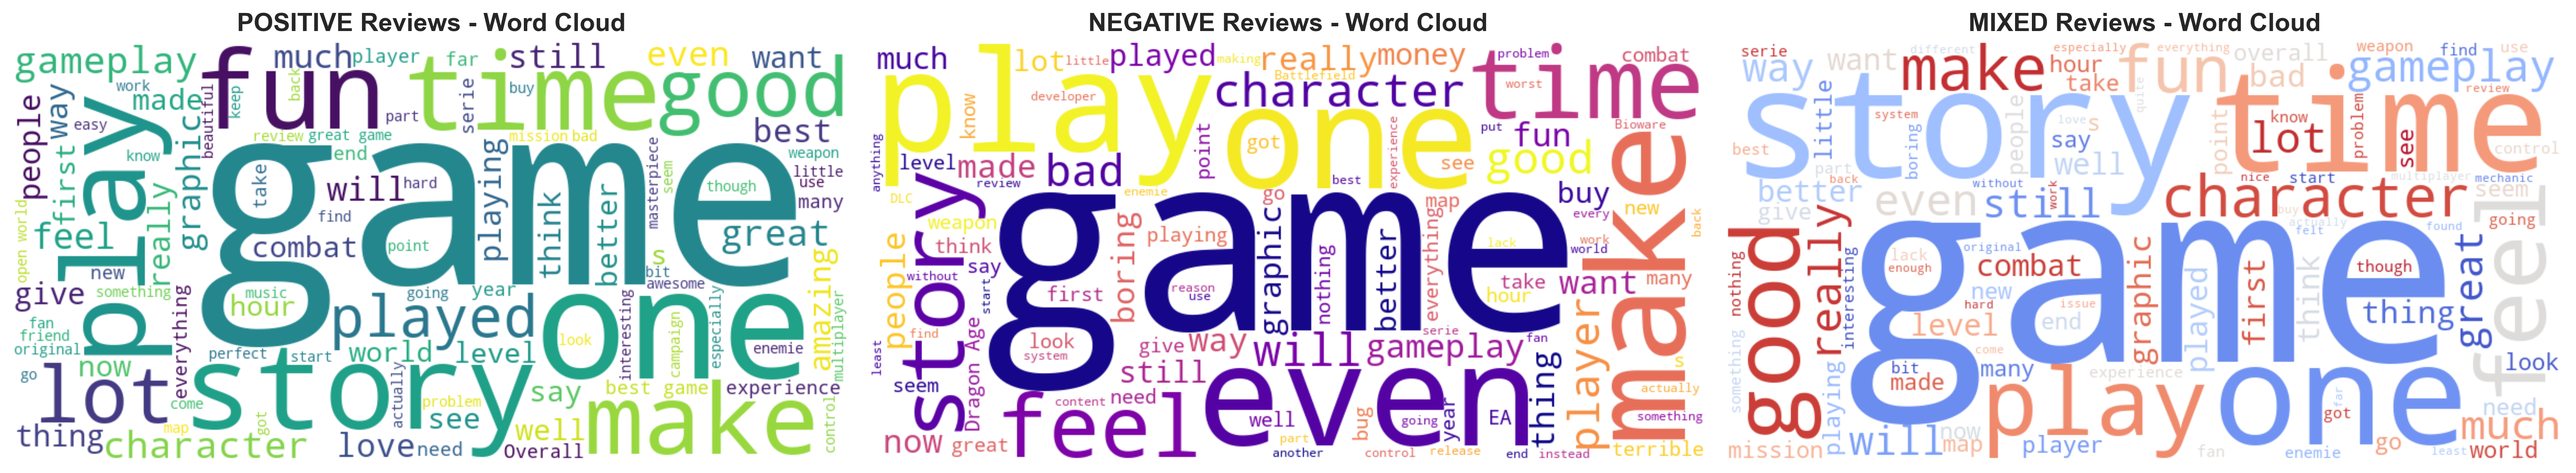
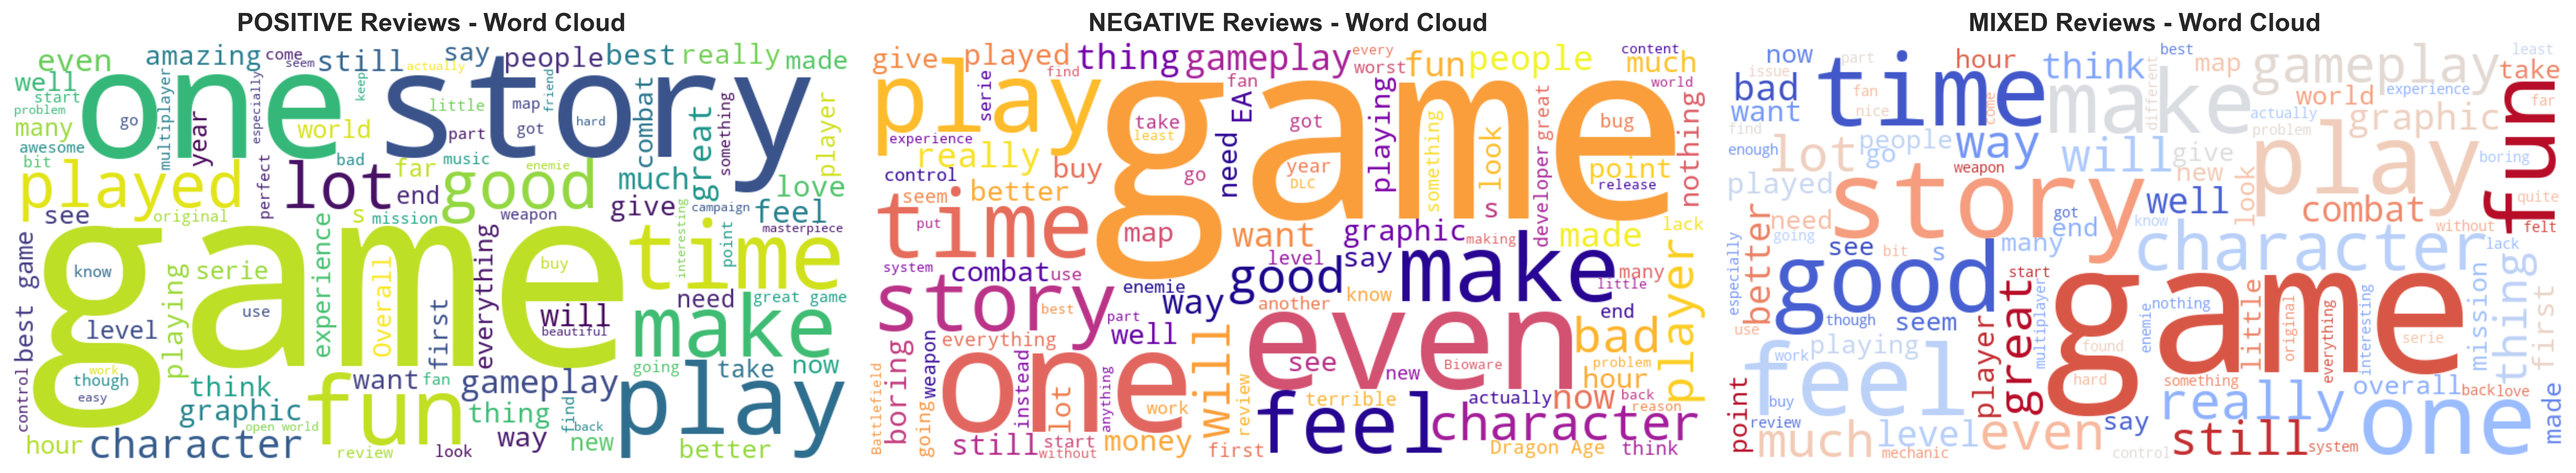
Add systematic sample selection and update EDA outputs
Introduced a systematic method for selecting representative review samples by category, including stratified sampling and contrast marker prioritization for mixed reviews. Updated EDA script to save new representative samples and legacy detailed analysis reports, and revised output files accordingly. Updated word cloud image and text reports to reflect these changes.

diff --git a/data_prepare_phase/eda_analysis.py b/data_prepare_phase/eda_analysis.py
@@ -224,7 +224,115 @@ plt.savefig(OUTPUT_DIR / '03_common_words_by_category.png', dpi=300, bbox_inches
 print(f"✓ Saved: {OUTPUT_DIR / '03_common_words_by_category.png'}")
 
 # ============================================================================
-# 6. DEEP DIVE INTO MIXED REVIEWS
+# 6. SYSTEMATIC SAMPLE SELECTION FOR REPORT
+# ============================================================================
+def select_representative_samples(category_df, category_name, n_samples=5, n_candidates=100):
+    """
+    Systematically select representative samples from a category.
+    
+    Strategy:
+    1. Random sample large candidate pool (default: 100 candidates)
+    2. Filter outliers (< 10 words or > 300 words)
+    3. For mixed reviews: prioritize those with contrast markers
+    4. Stratify by length (below median, near mean, above 75th percentile)
+    5. Select diverse examples across the length spectrum
+    
+    Args:
+        category_df: DataFrame for the category
+        category_name: Name of category ('positive', 'negative', 'mixed')
+        n_samples: Number of samples to select (default: 5)
+        n_candidates: Number of initial random candidates (default: 100)
+    
+    Returns:
+        DataFrame with selected samples
+    """
+    print(f"\n{'='*80}")
+    print(f"SYSTEMATIC SAMPLE SELECTION: {category_name.upper()}")
+    print(f"{'='*80}")
+    
+    # Step 0: Random sample from category to get candidate pool
+    n_candidates = min(n_candidates, len(category_df))
+    candidate_pool = category_df.sample(n=n_candidates, random_state=42)
+    print(f"Random candidate pool: {n_candidates} reviews")
+    
+    # Step 0: Random sample from category to get candidate pool
+    n_candidates = min(n_candidates, len(category_df))
+    candidate_pool = category_df.sample(n=n_candidates, random_state=42)
+    print(f"Random candidate pool: {n_candidates} reviews")
+    
+    # Step 1: Filter outliers (focus on interquartile range)
+    filtered_df = candidate_pool[
+        (candidate_pool['word_count'] >= 10) & 
+        (candidate_pool['word_count'] <= 300)
+    ].copy()
+    
+    print(f"After filtering outliers (10-300 words): {len(filtered_df)}")
+    
+    # Step 2: For mixed reviews, prioritize contrast markers
+    if category_name == 'mixed':
+        contrast_words = ['but', 'however', 'although', 'though', 'despite', 'unfortunately', 'except']
+        filtered_df['has_contrast'] = filtered_df['review_text'].apply(
+            lambda x: any(word in x.lower() for word in contrast_words)
+        )
+        # Prioritize reviews with contrast markers (79.6% have them)
+        contrast_df = filtered_df[filtered_df['has_contrast']].copy()
+        print(f"Reviews with contrast markers: {len(contrast_df)}")
+        
+        if len(contrast_df) >= n_samples:
+            filtered_df = contrast_df
+    
+    # Check if we have enough samples
+    if len(filtered_df) < n_samples:
+        print(f"Warning: Only {len(filtered_df)} samples available after filtering, requested {n_samples}")
+        n_samples = len(filtered_df)
+    
+    # Step 3: Calculate length statistics
+    median_wc = filtered_df['word_count'].median()
+    mean_wc = filtered_df['word_count'].mean()
+    q75_wc = filtered_df['word_count'].quantile(0.75)
+    
+    print(f"\nLength statistics after filtering:")
+    print(f"  Median word count: {median_wc:.0f}")
+    print(f"  Mean word count: {mean_wc:.0f}")
+    print(f"  75th percentile: {q75_wc:.0f}")
+    
+    # Step 4: Stratified selection by length
+    selected_samples = []
+    
+    # Define length strata
+    strata = [
+        ('short', 0, median_wc, max(1, n_samples // 3)),
+        ('medium', median_wc, q75_wc, max(1, n_samples // 3)),
+        ('long', q75_wc, float('inf'), max(1, n_samples - 2 * (n_samples // 3)))
+    ]
+    
+    print(f"\nStratified sampling:")
+    for stratum_name, lower, upper, n_from_stratum in strata:
+        stratum_df = filtered_df[
+            (filtered_df['word_count'] > lower) & 
+            (filtered_df['word_count'] <= upper)
+        ]
+        
+        if len(stratum_df) > 0:
+            # Random sample from this stratum
+            n_to_sample = min(n_from_stratum, len(stratum_df))
+            samples = stratum_df.sample(n=n_to_sample, random_state=42)
+            selected_samples.append(samples)
+            print(f"  {stratum_name:8s} ({lower:5.0f}-{upper:5.0f} words): selected {n_to_sample} from {len(stratum_df):,} available")
+    
+    # Combine all selected samples
+    if selected_samples:
+        result_df = pd.concat(selected_samples, ignore_index=True)
+        print(f"\nTotal samples selected: {len(result_df)}")
+        print(f"Word count range: {result_df['word_count'].min():.0f}-{result_df['word_count'].max():.0f}")
+        return result_df
+    else:
+        print("\nWarning: No samples met criteria, falling back to random selection")
+        return filtered_df.sample(n=min(n_samples, len(filtered_df)), random_state=42)
+
+
+# ============================================================================
+# 7. DEEP DIVE INTO MIXED REVIEWS
 # ============================================================================
 print("\n[6/6] Deep dive into MIXED reviews...")
 print("\n" + "="*80)
@@ -281,38 +389,60 @@ print(f"Mixed reviews with contrast words: {has_contrast:,}")
 print("\nAverage sentiment indicators per review:")
 print(f"Mixed reviews    - Positive words: {mixed_df_copy['pos_count'].mean():.2f}, Negative words: {mixed_df_copy['neg_count'].mean():.2f}, Contrast words: {mixed_df_copy['contrast_count'].mean():.2f}")
 
-# Sample mixed reviews
+# ============================================================================
+# SYSTEMATIC SAMPLE SELECTION
+# ============================================================================
 print("\n" + "="*80)
-print("SAMPLE MIXED REVIEWS ANALYSIS")
+print("SYSTEMATIC REPRESENTATIVE SAMPLE SELECTION")
 print("="*80)
 
-# Get diverse samples
-sample_mixed = mixed_df.sample(min(15, len(mixed_df)))
+# Select representative samples for each category
+positive_samples = select_representative_samples(positive_df, 'positive', n_samples=5)
+negative_samples = select_representative_samples(negative_df, 'negative', n_samples=5)
+mixed_samples = select_representative_samples(mixed_df, 'mixed', n_samples=5)
 
-for i, (idx, row) in enumerate(sample_mixed.iterrows(), 1):
+print("\n" + "="*80)
+print("SELECTED REPRESENTATIVE SAMPLES")
+print("="*80)
+
+print("\n" + "="*80)
+print("SELECTED REPRESENTATIVE SAMPLES")
+print("="*80)
+
+# Display positive samples
+print(f"\n{'='*80}")
+print("POSITIVE REVIEW SAMPLES")
+print(f"{'='*80}")
+for i, (idx, row) in enumerate(positive_samples.iterrows(), 1):
+    print(f"\nSample {i} - {row['word_count']:.0f} words, {row['text_length']:.0f} characters")
+    print(f"{'-'*80}")
+    print(row['review_text'][:500] + "..." if len(row['review_text']) > 500 else row['review_text'])
+
+# Display negative samples
+print(f"\n\n{'='*80}")
+print("NEGATIVE REVIEW SAMPLES")
+print(f"{'='*80}")
+for i, (idx, row) in enumerate(negative_samples.iterrows(), 1):
+    print(f"\nSample {i} - {row['word_count']:.0f} words, {row['text_length']:.0f} characters")
+    print(f"{'-'*80}")
+    print(row['review_text'][:500] + "..." if len(row['review_text']) > 500 else row['review_text'])
+
+# Display mixed samples with analysis
+print(f"\n\n{'='*80}")
+print("MIXED REVIEW SAMPLES (with contrast analysis)")
+print(f"{'='*80}")
+for i, (idx, row) in enumerate(mixed_samples.iterrows(), 1):
     text = row['review_text']
     pos, neg, contrast = find_contrasting_patterns(text)
     
-    print(f"\n{'-'*80}")
-    print(f"MIXED REVIEW SAMPLE #{i}")
-    print(f"{'-'*80}")
-    print(f"Length: {len(text)} chars, {len(text.split())} words")
+    print(f"\nSample {i} - {row['word_count']:.0f} words, {row['text_length']:.0f} characters")
     print(f"Positive indicators: {pos}, Negative indicators: {neg}, Contrast words: {contrast}")
-    print(f"\nReview text:")
+    print(f"{'-'*80}")
     print(text[:500] + "..." if len(text) > 500 else text)
-    
-    # Try to identify why it's mixed
-    print(f"\n→ Analysis: ", end="")
-    if pos > 0 and neg > 0:
-        print("Contains both positive and negative sentiments")
-    elif contrast > 0:
-        print("Uses contrasting language")
-    else:
-        print("Neutral or balanced tone")
 
-# Compare positive/negative/mixed samples side by side
+# Get random diverse samples for comparison
 print("\n" + "="*80)
-print("COMPARATIVE ANALYSIS: WHY MIXED vs POSITIVE vs NEGATIVE?")
+print("COMPARATIVE ANALYSIS: POSITIVE vs NEGATIVE vs MIXED")
 print("="*80)
 
 for i in range(5):
@@ -360,13 +490,76 @@ with open(OUTPUT_DIR / 'detailed_analysis.txt', 'w', encoding='utf-8') as f:
         f.write(f"Top 30 most common words:\n")
         for i, (word, count) in enumerate(category_analysis[category]['common_words'], 1):
             f.write(f"{i:2d}. {word:20s} - {count:6,} times\n")
-        
-        f.write(f"\n\nSample reviews ({category}):\n")
-        f.write("-"*80 + "\n")
-        for i, review in enumerate(category_analysis[category]['sample_reviews'], 1):
-            f.write(f"\nSample {i}:\n{review}\n")
-            f.write("-"*80 + "\n")
 
+# Save systematically selected samples
+with open(OUTPUT_DIR / 'representative_samples.txt', 'w', encoding='utf-8') as f:
+    f.write("="*80 + "\n")
+    f.write("SYSTEMATICALLY SELECTED REPRESENTATIVE SAMPLES\n")
+    f.write("="*80 + "\n\n")
+    
+    f.write("SELECTION METHODOLOGY:\n")
+    f.write("-"*80 + "\n")
+    f.write("1. Random sampling: 100 reviews randomly selected from each category\n")
+    f.write("2. Statistical filtering: Exclude outliers (< 10 words or > 300 words)\n")
+    f.write("3. For mixed reviews: Prioritize samples with contrast markers\n")
+    f.write("4. Stratified selection: Select samples across length spectrum:\n")
+    f.write("   - Short: below median word count\n")
+    f.write("   - Medium: median to 75th percentile\n")
+    f.write("   - Long: above 75th percentile\n")
+    f.write("5. Final output: 5 representative samples per category\n\n")
+    
+    # Positive samples
+    f.write("="*80 + "\n")
+    f.write("POSITIVE REVIEW SAMPLES\n")
+    f.write("="*80 + "\n\n")
+    for i, (idx, row) in enumerate(positive_samples.iterrows(), 1):
+        f.write(f"Sample {i} - {row['word_count']:.0f} words, {row['text_length']:.0f} characters\n")
+        f.write("-"*80 + "\n")
+        f.write(row['review_text'] + "\n\n")
+    
+    # Negative samples
+    f.write("\n" + "="*80 + "\n")
+    f.write("NEGATIVE REVIEW SAMPLES\n")
+    f.write("="*80 + "\n\n")
+    for i, (idx, row) in enumerate(negative_samples.iterrows(), 1):
+        f.write(f"Sample {i} - {row['word_count']:.0f} words, {row['text_length']:.0f} characters\n")
+        f.write("-"*80 + "\n")
+        f.write(row['review_text'] + "\n\n")
+    
+    # Mixed samples
+    f.write("\n" + "="*80 + "\n")
+    f.write("MIXED REVIEW SAMPLES\n")
+    f.write("="*80 + "\n\n")
+    for i, (idx, row) in enumerate(mixed_samples.iterrows(), 1):
+        text = row['review_text']
+        pos, neg, contrast = find_contrasting_patterns(text)
+        f.write(f"Sample {i} - {row['word_count']:.0f} words, {row['text_length']:.0f} characters\n")
+        f.write(f"Positive indicators: {pos}, Negative indicators: {neg}, Contrast words: {contrast}\n")
+        f.write("-"*80 + "\n")
+        f.write(text + "\n\n")
+
+print(f"✓ Saved representative samples: {OUTPUT_DIR / 'representative_samples.txt'}")
+
+# Save original detailed analysis (keeping legacy samples for reference)
+with open(OUTPUT_DIR / 'detailed_analysis_legacy.txt', 'w', encoding='utf-8') as f:
+    f.write("="*80 + "\n")
+    f.write("DETAILED EDA REPORT - GAME REVIEW SENTIMENT DATASET (LEGACY)\n")
+    f.write("="*80 + "\n\n")
+    
+    f.write("1. BASIC STATISTICS\n")
+    f.write("-"*80 + "\n")
+    f.write(f"Total reviews: {len(df):,}\n")
+    f.write(f"\nCategory distribution:\n{category_counts}\n")
+    f.write(f"\nText length statistics:\n{df[['text_length', 'word_count']].describe()}\n")
+    
+    for category in categories:
+        f.write(f"\n\n{'='*80}\n")
+        f.write(f"CATEGORY: {category.upper()}\n")
+        f.write(f"{'='*80}\n\n")
+        
+        f.write(f"Top 30 most common words:\n")
+        for i, (word, count) in enumerate(category_analysis[category]['common_words'], 1):
+            f.write(f"{i:2d}. {word:20s} - {count:6,} times\n")
 print(f"✓ Saved detailed analysis: {OUTPUT_DIR / 'detailed_analysis.txt'}")
 
 # Save summary statistics to CSV
@@ -386,6 +579,7 @@ print("\nGenerated files:")
 print("  1. 01_basic_distributions.png - Distribution visualizations")
 print("  2. 02_word_clouds.png - Word clouds per category")
 print("  3. 03_common_words_by_category.png - Top words visualization")
-print("  4. detailed_analysis.txt - Comprehensive text report")
-print("  5. summary_statistics.csv - Statistical summary")
+print("  4. representative_samples.txt - Systematically selected samples")
+print("  5. detailed_analysis_legacy.txt - Comprehensive text report (legacy)")
+print("  6. summary_statistics.csv - Statistical summary")
 print("\n" + "="*80)
